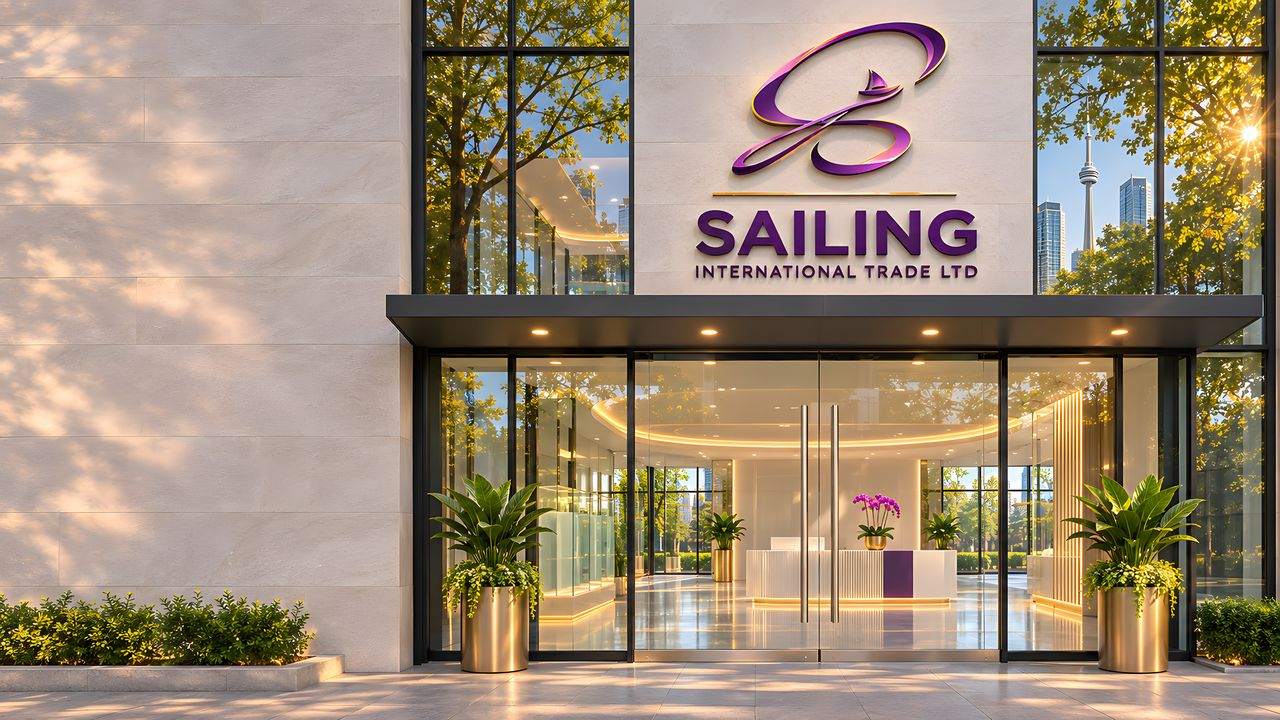
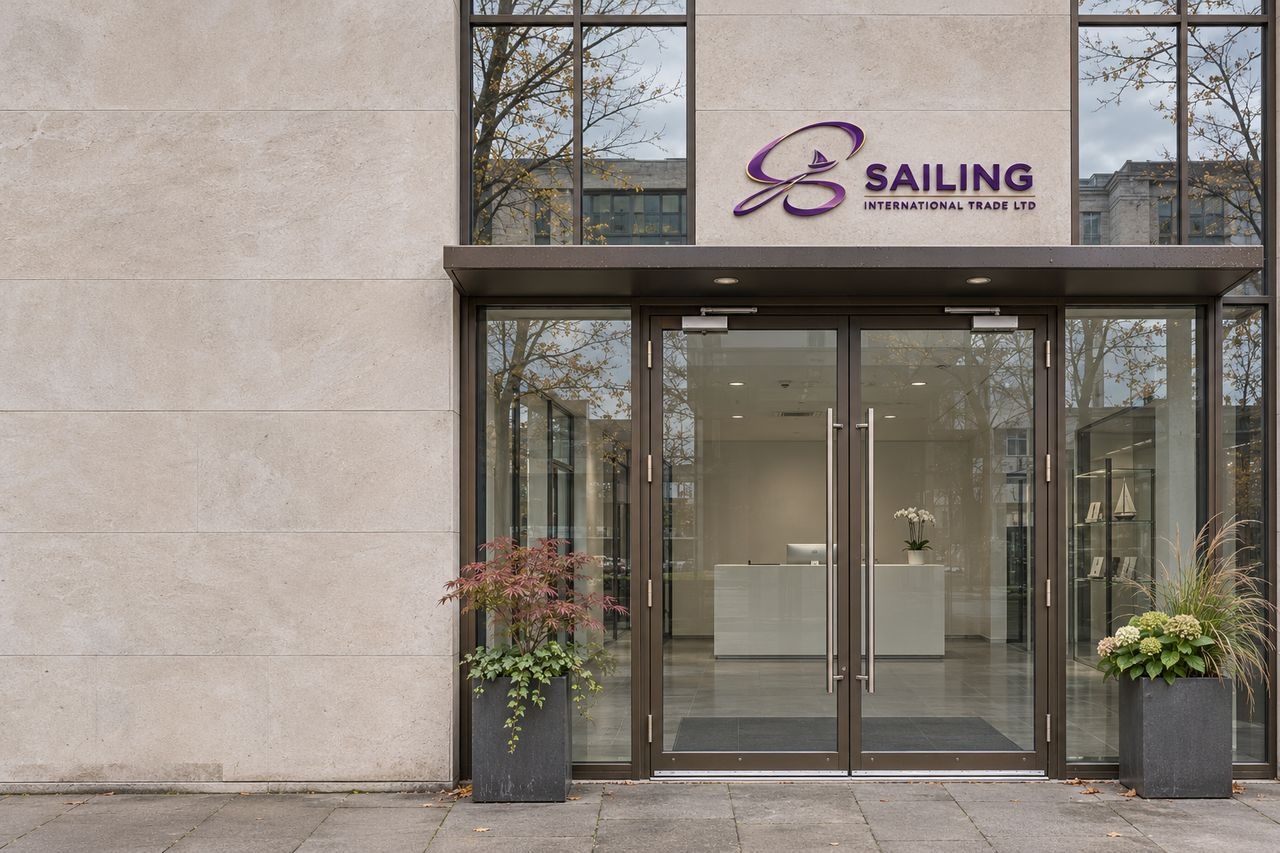
Showroom product close-ups in the cards; realistic front door on the home page
- 29 product cards show close-ups taken in the showroom (assets/img/showroom/closeups, installed with
  make_showroom.py --closeups); green adhesive and the removable shelf keep their product photos until
  correct close-ups are made
- the home page cover is the realistic overcast front door; door position and framing updated so the
  words sit on the stone wall and the walk-in goes through these doors

diff --git a/assets/css/home-door.css b/assets/css/home-door.css
@@ -3,7 +3,7 @@
 .door { position: relative; height: 100vh; height: 100svh; min-height: 560px; overflow: hidden; background: #E8E1D6; }
 .door-photo img, .door-inside { position: absolute; inset: 0; width: 100%; height: 100%; object-fit: cover; }
 /* keep the stone wall on the left in view on desktop screens: that is where the words go */
-.door-photo img { object-position: 0% 62%; transform-origin: var(--ox, 64%) var(--oy, 66%); }
+.door-photo img { object-position: 0% 30%; transform-origin: var(--ox, 66%) var(--oy, 64%); }
 /* soft shade under the header so its white menu stays readable on the light stone */
 .door::before { content: ""; position: absolute; left: 0; right: 0; top: 0; height: calc(var(--header-h) + 90px); z-index: 2; pointer-events: none;
   background: linear-gradient(180deg, rgba(28, 22, 38, .62), rgba(28, 22, 38, 0)); }
@@ -31,7 +31,7 @@
 @media (max-width: 760px), (max-aspect-ratio: 1/1) {
   .door { height: auto; min-height: 0; display: flex; flex-direction: column; background: var(--ink); }
   .door-photo { position: relative; display: block; height: 62svh; min-height: 360px; overflow: hidden; }
-  .door-photo img { object-position: 64% 70%; }
+  .door-photo img { object-position: 66% 60%; }
   .door-copy { position: relative; left: auto; top: auto; width: auto; transform: none; padding: 26px 20px 58px; }
   .door-kicker { color: #D9BE8C; }
   .door h1 { color: var(--white); font-size: clamp(1.7rem, 7vw, 2.4rem); }

diff --git a/index.html b/index.html
@@ -115,13 +115,13 @@
 
 <main id="main">
 <noscript><p class="noscript">This website needs JavaScript to show its content. Please enable JavaScript, or call 437-880-8427.</p><style>.js main, main { opacity: 1 !important; }</style></noscript>
-<link rel="stylesheet" href="assets/css/home-door.css?v=b13cec9c">
+<link rel="stylesheet" href="assets/css/home-door.css?v=ba8661b8">
   <!-- Home cover: Sailing's front door. "Enter the showroom" walks through the glass doors into the showroom photo
        (showroom.html). Door pictures made with _src/make_home_entrance.py; walk-in in assets/js/home-door.js -->
   <section class="door" id="door" aria-labelledby="hero-title">
     <picture class="door-photo">
       <source media="(max-width: 760px)" srcset="assets/img/site/front-entrance-m.jpg">
-      <img src="assets/img/site/front-entrance.jpg" alt="" width="2560" height="1441" fetchpriority="high">
+      <img src="assets/img/site/front-entrance.jpg" alt="" width="2560" height="1707" fetchpriority="high">
     </picture>
     <img class="door-inside" src="assets/img/showroom/showroom-m.jpg" alt="" fetchpriority="low">
     <div class="door-copy">
@@ -179,7 +179,7 @@
   </section>
 
 
-<script src="assets/js/home-door.js?v=6f5637ec" defer></script>
+<script src="assets/js/home-door.js?v=3e7b9a9e" defer></script>
 
 </main>
 

diff --git a/assets/js/home-door.js b/assets/js/home-door.js
@@ -8,13 +8,13 @@
   const btn = door.querySelector('[data-door-enter]');
   const photo = door.querySelector('.door-photo img');
   const reduce = window.matchMedia('(prefers-reduced-motion: reduce)').matches;
-  const DOORS = [0.64, 0.69];   // centre of the glass doors, as a share of the picture's width and height
+  const DOORS = [0.664, 0.64];   // centre of the glass doors, as a share of the picture's width and height
 
   // where the doors are on screen: the picture is scaled to cover the box and placed by its object-position
   function aimAtDoors() {
     const box = photo.getBoundingClientRect();
     const iw = photo.naturalWidth || 2560;
-    const ih = photo.naturalHeight || 1441;
+    const ih = photo.naturalHeight || 1707;
     const k = Math.max(box.width / iw, box.height / ih);
     const w = iw * k;
     const h = ih * k;

diff --git a/_src/pages/index.html b/_src/pages/index.html
@@ -10,7 +10,7 @@ image: assets/img/site/front-entrance.jpg
   <section class="door" id="door" aria-labelledby="hero-title">
     <picture class="door-photo">
       <source media="(max-width: 760px)" srcset="assets/img/site/front-entrance-m.jpg">
-      <img src="assets/img/site/front-entrance.jpg" alt="" width="2560" height="1441" fetchpriority="high">
+      <img src="assets/img/site/front-entrance.jpg" alt="" width="2560" height="1707" fetchpriority="high">
     </picture>
     <img class="door-inside" src="assets/img/showroom/showroom-m.jpg" alt="" fetchpriority="low">
     <div class="door-copy">
